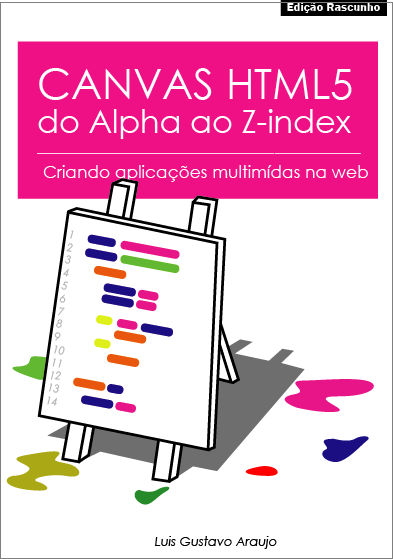
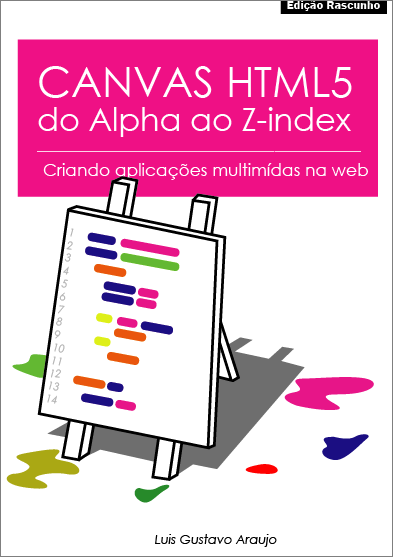
atualizando capa

diff --git a/README.md b/README.md
@@ -1,19 +1,15 @@
-# Livro Canvas HTML: do Alpha ao Z-Index
+# Canvas HTML5: do Alpha ao Z-Index
 
-![capa do livro](https://github.com/LuisAraujo/Livro-Canvas-HTML5-do-Alpha-ao-Z-index/blob/master/capa.png?raw=true)
+![capa do livro](https://raw.githubusercontent.com/LuisAraujo/Livro-Canvas-HTML5-do-Alpha-ao-Z-index/master/capa.png)
 
 > By Luis Araujo (2018)
 
-> Este livro tem com objetivo apresentar as principais aplicações do Canvas HTML5, desde os conceitos básicos até aplicações mais complexas como a criação de jogos. Este material nasce da necessidade de sintetizar informações sobre o Canvas e e compartilhar minha experiência na criação de diversas aplicações multimídia. Costumo dizer que dá para fazer o mundo com o canvas e espero que, ao término do material, você também chegue a esta conclusão. 
+> Este livro tem com objetivo apresentar as principais aplicações do Canvas HTML5, desde os conceitos básicos até aplicações mais complexas como a criação de jogos. Este material nasce da necessidade de sintetizar informações sobre o Canvas e e compartilhar minha experiência na criação de diversas aplicações multimídia. Costumo dizer que dá para fazer o mundo com o canvas e espero que, ao término do livro, você também chegue a esta conclusão também. 
 
 
+- Este este livro, assim como seu material adicional, são disponibilizados aqui como rascunho para livre leitura, não podendo ser impressos ou comercializados. 
 
-
-- Este material é disponibilizado aqui como rascunho para livre leitura, não podendo ser impresso ou comercializado. 
-
-- O material está em desenvolvimento, assim qualquer dúvida ou sugestão pode ser enviada para luisaraujo.ifba (at) gmail.com.
-
-
+- O livro está em desenvolvimento, assim qualquer dúvida ou sugestão pode ser enviada para luisaraujo.ifba (at) gmail.com.
 
 ## Capítulo I - Introdução
 
